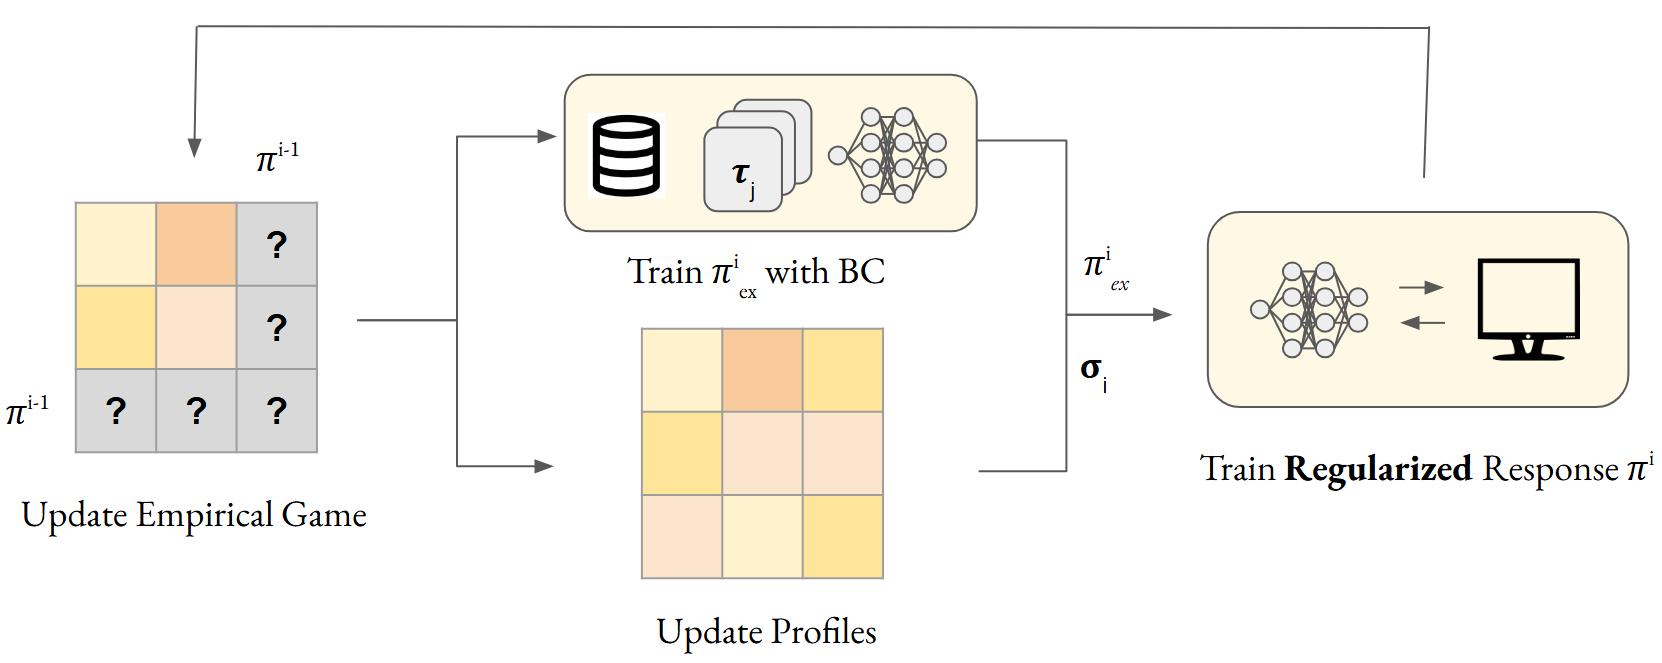
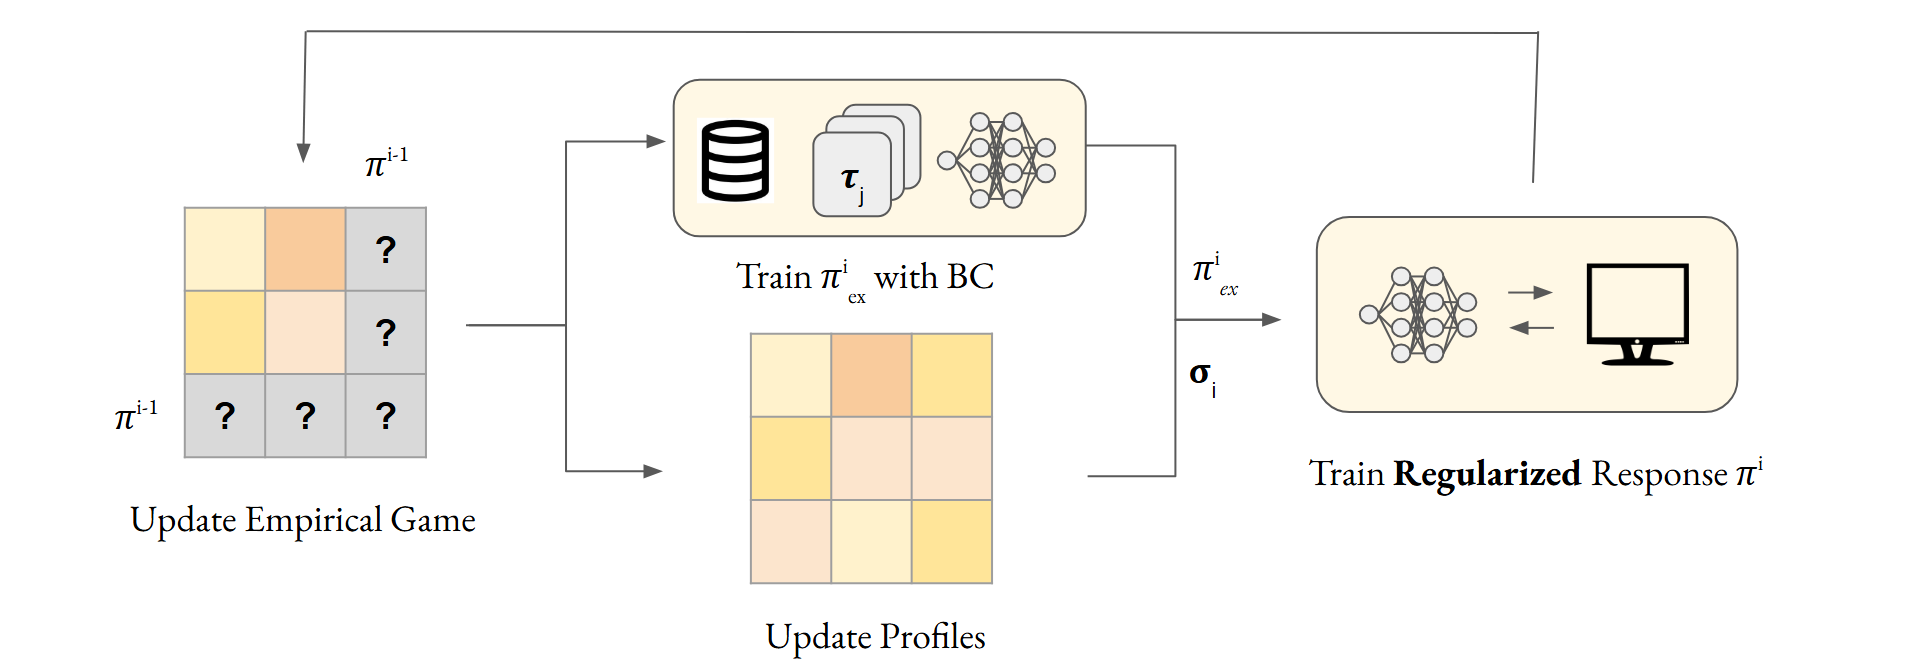
home

diff --git a/index.html b/index.html
@@ -69,7 +69,7 @@
 											<span class="icon solid fa-paper-plane"></span>
 											<div class="content">
 												<h3> My Current Work </h3>
-												<p> Lots of exciting things are to come at the moment. Will keep this place open for updates! </p>
+												<p> My work focuses on integrating offline learning paradigms into the game-theoretic analysis literature. </p>
 											</div>
 										</article>
 										<article>
@@ -124,6 +124,14 @@
 										<h2> Research Highlights </h2>
 									</header>
 									<div class="posts">
+										<article>
+											<a href="https://openreview.net/pdf?id=AxqgpcL90a" class="image"><img src="images/ex2psro_diagram.png" alt="" /></a>
+											<h3> High-Welfare Equilibrium Selection via Behavior Regularization </h3>
+											<p> Accepted at AAMAS GAIW 2025 and ICML 2025 </p>
+											<ul class="actions">
+												<li><a href="https://openreview.net/pdf?id=AxqgpcL90a" class="button">More</a></li>
+											</ul>
+										</article>
 										<article>
 											<a href="research.html" class="image"><img src="images/stigmergy.png" alt="" /></a>
 											<h3> Multi-Agent Coordination and Path-Finding through Stigmergy </h3>
@@ -180,7 +188,7 @@
 										<h2> Teaching, Honors, and Department </h2>
 									</header>			
 								
-									<p>2024-2025: CSE Graduate Department Recruitment Chair </p>
+									<p>2024-2026: CSE Graduate Department Recruitment Chair </p>
 									<p>Fall 2024: CSE 498/598 (Reinforcement Learning) Graduate Student Instructor</p>
 								
 									<div class="row">

diff --git a/research.html b/research.html
@@ -94,6 +94,7 @@
 										<p> Under Review </p>
 									</div>
 
+									<hr class="major" />
 									<div class="mini-posts">
 									<article>
 										<a href="https://openreview.net/pdf?id=AxqgpcL90a" class="image "><img src="images/ex2psro_diagram.png" alt="" /></a>
